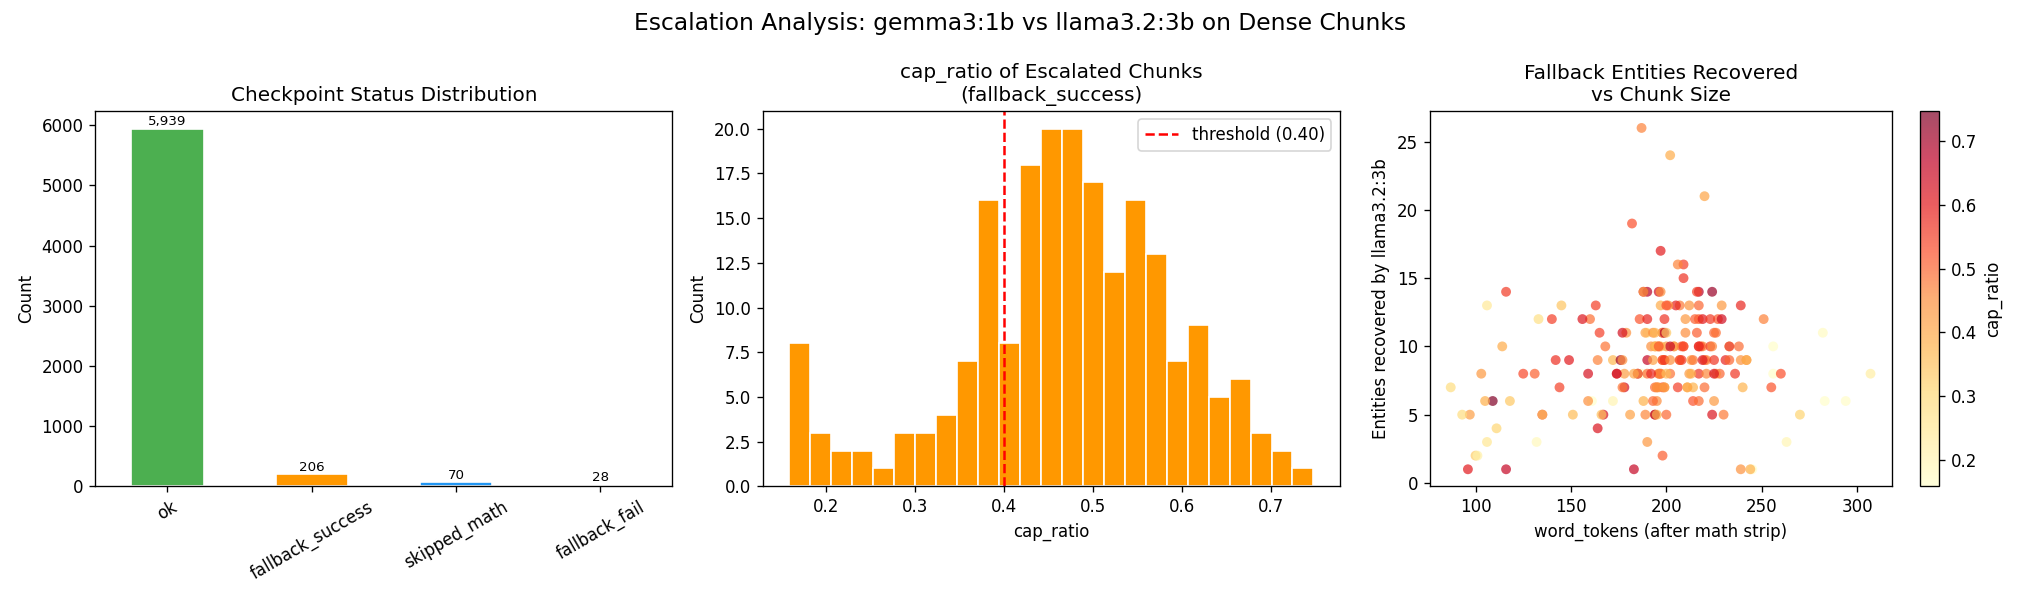
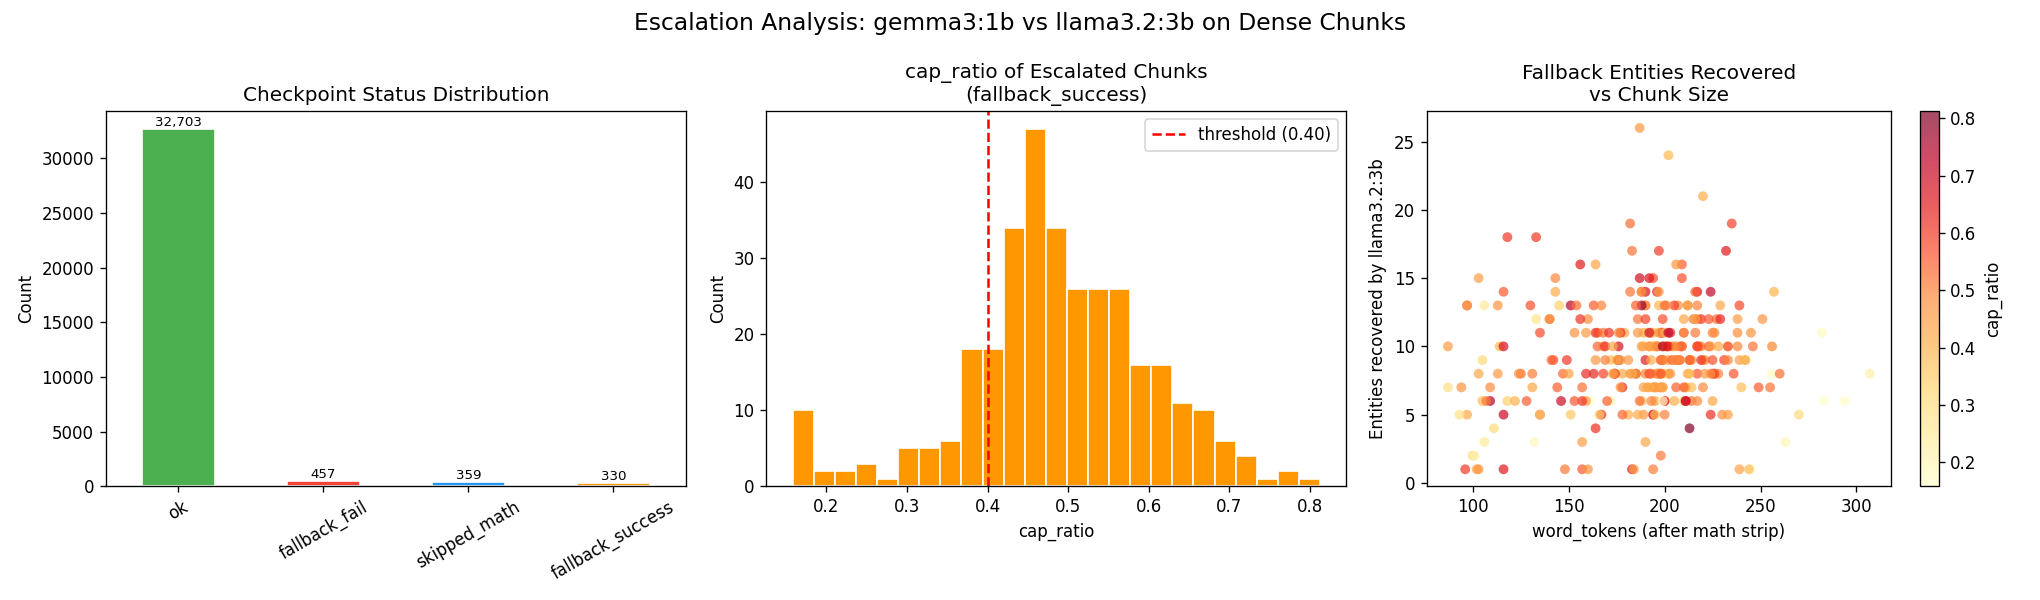
docs+results: update benchmarking guidance and refresh escalation analysis artifact

diff --git a/README.md b/README.md
@@ -54,7 +54,7 @@ This repository implements a comparative benchmarking framework to evaluate a cu
               ┌─────▼─────┐                                   ┌────────▼───────┐           │
               │ Standard  │                                   │ Knowledge Graph│           │
               │ RAG       │                                   │ (NetworkX)     │           │
-              │ Retriever │                                   └────────┬───────┘           │ 
+              │ Retriever │                                   └────────┬───────┘           │
               └─────┬─────┘                                            │                   │
                     │                                         ┌────────▼───────┐           │
                     │                                         │ Community Det. │           │
@@ -219,6 +219,9 @@ rag-bench index
 # Build GraphRAG (entity extraction + graph + communities)
 rag-bench build-graph
 
+# Build GraphRAG with higher extraction concurrency (for local Ollama)
+rag-bench build-graph --resume --extract-workers 2
+
 # Ask a question
 rag-bench query "What is Proximal Policy Optimization?"
 
@@ -227,7 +230,16 @@ rag-bench benchmark data/eval_questions.json
 
 # Run benchmark with all LLM judges and JSONL audit log
 rag-bench benchmark data/eval_questions.json --faithfulness --quality-judges
+
+# Run quality-only benchmark (skip efficiency tracking)
+rag-bench benchmark data/eval_questions.json --faithfulness --quality-judges --no-efficiency-tracking
 ```
+
+Performance note:
+- `Leiden` community detection is CPU-bound and does not use GPU.
+- GPU usage mainly comes from local LLM inference (for extraction/generation) and can appear low
+      if extraction is running with a single worker.
+- Use `--extract-workers` (or `OLLAMA_EXTRACTION_WORKERS` in `.env`) to tune throughput.
 
 ---
 

diff --git a/docs/BENCHMARKING_STRATEGY.md b/docs/BENCHMARKING_STRATEGY.md
@@ -39,6 +39,10 @@ Every benchmark row should include:
 
 This enables quality-cost trade-off analysis and reproducibility.
 
+Implementation note:
+- Efficiency tracking is now configurable in the benchmark CLI.
+- Use `--no-efficiency-tracking` when you want quality-only runs.
+
 ### Tier 3: Small manual golden set (sanity)
 
 - Maintain only a 20–50 question manually labeled set.
@@ -67,4 +71,7 @@ rag-bench benchmark data/eval_questions.json --graphrag-mode local --graphrag-mo
 
 # Enable faithfulness (LLM-as-judge)
 rag-bench benchmark data/eval_questions.json --faithfulness
+
+# Quality-focused run (skip efficiency tracking fields/computation)
+rag-bench benchmark data/eval_questions.json --faithfulness --quality-judges --no-efficiency-tracking
 ```
